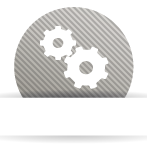
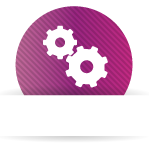
Icones + popup ulteam

diff --git a/index.html b/index.html
@@ -185,24 +185,32 @@
                         </div>
                         <div class="lightbox" id="fl4">
                             <h3>Réalisation d'un chantier DevOps</h3>
-                                <p>Nous vous aidons à positionner votre organisation sur un modèle de maturité DevOps afin de définir les axes d’amélioration qui vous permettront de rendre vos processus plus fluides et mieux sécurisés. Cette mission s’intéresse aussi bien aux processus humains qu’aux outils utilisés au sein de votre organisation.</p>
-                                <p>Notre approche comprend :</p>
+                                <p>
+                                    Nous vous aidons à adresser une problématique spécifique (déploiement continu, provisionning d’infrastructure, outillage de votre Cloud privé, etc.) en coachant vos équipes Dev et Ops et en optimisant les outils au sein de votre organisation.</p>
+                                <p>
+                                    Notre approche comprend :</p>
                                 <ul>
-                                    <li>des entretiens avec les opérationnels,</li>
-                                    <li>l’analyse de l’ensemble des étapes entre livraison du code et mise en production (Value Stream Map),</lI>
-                                    <li>l’audit des outils existants (cartographie de l’architecture, usine logicielle, outil de déploiement, monitoring, automatisation, troubleshooting),</li>
-                                    <li>la restitution croisée technique et organisationnelle.</li>
+                                    <li>la définition d’objectifs communs entre Dev et Ops,</li>
+                                    <li>la mise en place de processus communs sur le périmètre concerné,</li>
+                                    <li>l’audit de l’outillage existant,</li>
+                                    <li>l’optimisation des outils (rationnalisation des outils existants et mise en place de nouveaux outils),</li>
+                                    <li>la formation des équipes,</li>
+                                    <li>l’accompagnement sur un projet pilote.</li>
                             </ul>
                         </div>
                         <div class="lightbox" id="fl5">
                             <h3>Vers l'équipe Ulteam</h3>
                             <p>
-                                Imaginez une équipe agile qui considèerrait qur son sprint est terminé lirsque le contenu est en produciton. Chez Xebia, c'est ce que nous appelons l'équipe ultime; elle intègre l'ensemble des compétences nécéssaires pour délivrer la valeur directement en production sans dépendre d'équipes tierces.</p>
+                                Imaginez une équipe agile qui considèerrait qur son sprint est terminé lorsque le contenu est en produciton. Chez Xebia, c'est ce que nous appelons l'équipe ultime; elle intègre l'ensemble des compétences nécéssaires pour délivrer la valeur directement en production sans dépendre d'équipes tierces.</p>
                             <p>
                                 La démarche comprend :</p>
                               <ul>
-                                <li>  
-
+                                <li>un recensement des compétences de l’équipe et de son niveau d’autonomie,</li>
+                                <li>l’identification des responsabilités transverses à l’organisation,</li>
+                                <li>la vérification des pré-requis de l’architecture technique (feature flipping, etc.),</li>
+                                <li>les tests automatisés,</li>
+                                <li>la mise en œuvre sur un projet pilote : immersion Ops dans la Feature Team pendant un sprint.</li>
+                            </ul>
                         </div>
                 </div>
             </div>
